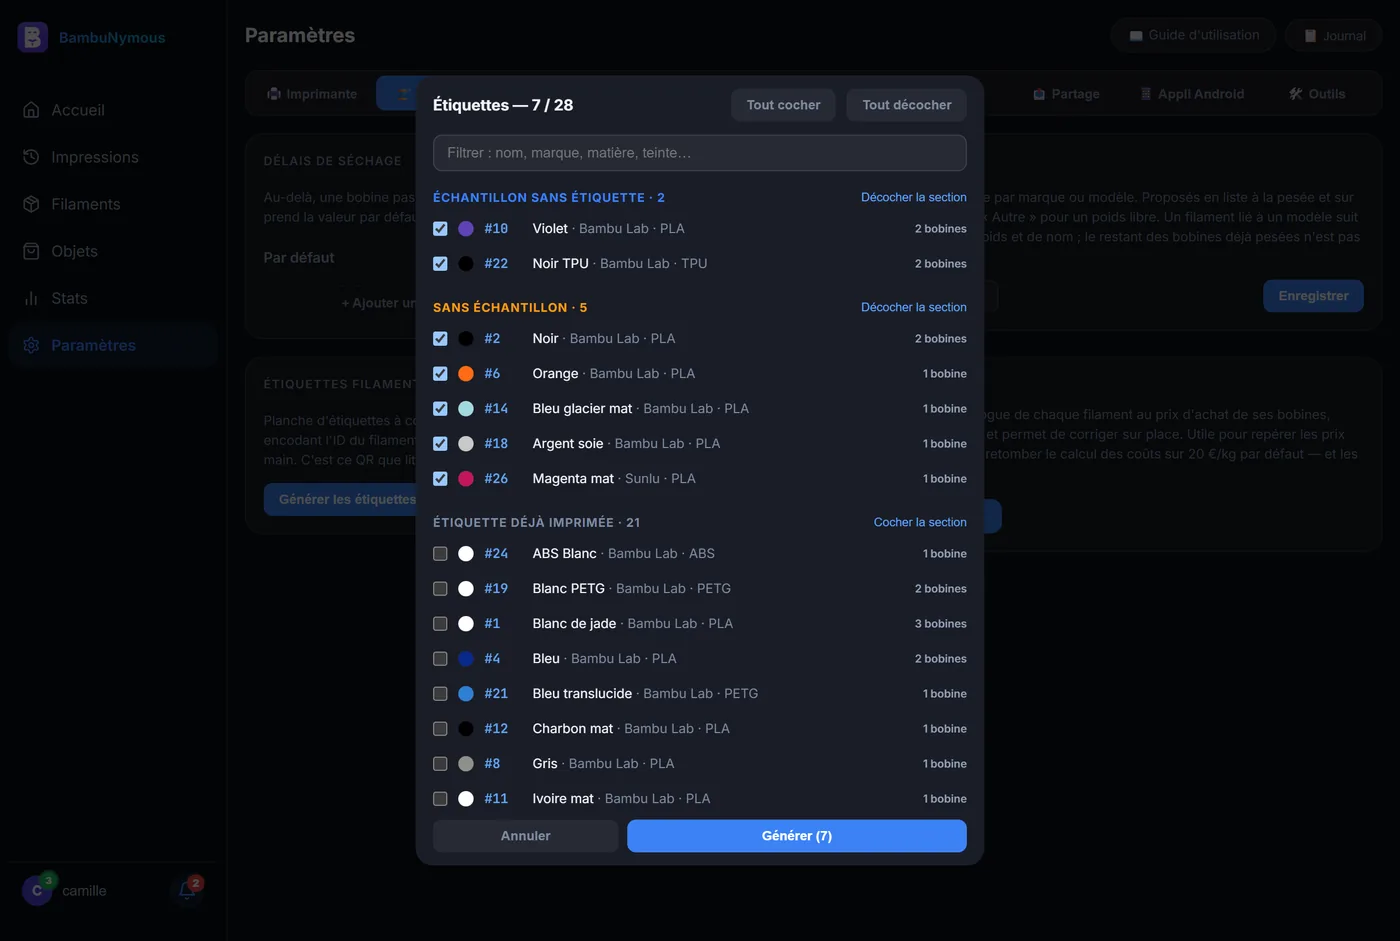
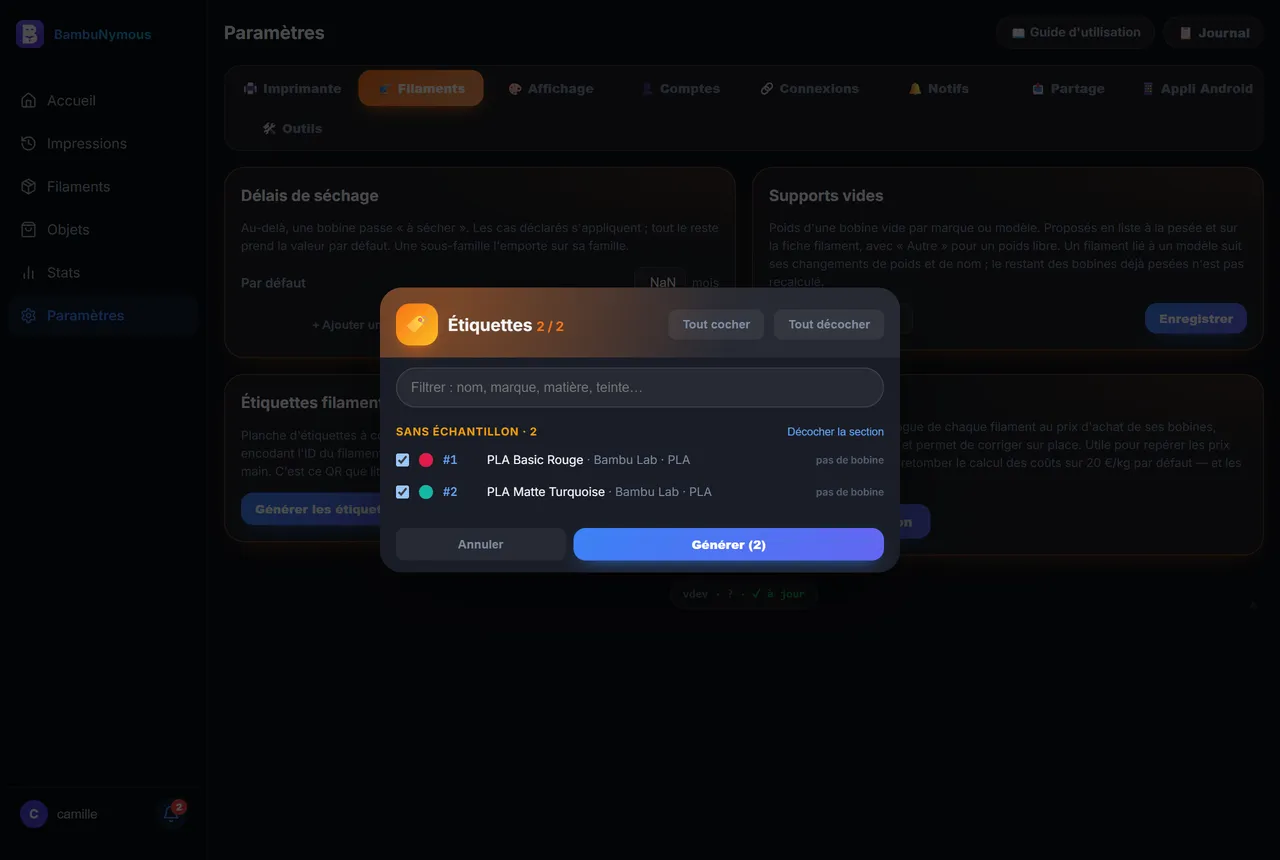
Paramètres : fenêtres Catégories de l'accueil, Étiquettes et Révision des prix dans le nouveau style
En-tête teinté avec icône, coins arrondis, recherche en pilule, filtres et boutons en dégradé ;
dans la révision des prix, une pastille de couleur par filament et les lignes sans prix teintées.

diff --git a/frontend/src/pages/Settings.jsx b/frontend/src/pages/Settings.jsx
@@ -1414,17 +1414,20 @@ function CategoriesModal({ onClose }) {
       justifyContent:"center", padding:16 }}>
       <div onClick={e => e.stopPropagation()} style={{ width:"100%", maxWidth:480,
         maxHeight:"86vh", display:"flex", flexDirection:"column",
-        background:"var(--sheet-bg)", borderRadius:16, overflow:"hidden" }}>
+        background:"var(--sheet-bg)", borderRadius:22, overflow:"hidden", boxShadow:"0 30px 80px rgba(0,0,0,0.45)" }}>
 
-        <div style={{ padding:"12px 16px", display:"flex", alignItems:"center", gap:10 }}>
-          <p style={{ fontSize:14, fontWeight:700, color:"var(--text)", margin:0, flex:1 }}>
+        <div style={{ padding:"16px 16px 12px", display:"flex", alignItems:"center", gap:12,
+          background:"radial-gradient(circle at 12% 30%, #EC489955, transparent 60%), linear-gradient(135deg, #EC489922, transparent 70%), var(--surface2)" }}>
+          <span style={{ width:42, height:42, borderRadius:14, flexShrink:0, display:"flex", alignItems:"center", justifyContent:"center", fontSize:20,
+            background:"linear-gradient(135deg, #EC4899, #F472B6)", boxShadow:"0 8px 18px -8px #EC4899" }}>🗂</span>
+          <p style={{ fontSize:17, fontWeight:900, color:"var(--text)", margin:0, flex:1 }}>
             Catégories de l'accueil
           </p>
-          <button type="button" onClick={onClose}
-            style={{ background:"none", border:"none", color:"var(--muted)",
-              fontSize:18, cursor:"pointer" }}>✕</button>
+          <button type="button" onClick={onClose} aria-label="Fermer"
+            style={{ width:34, height:34, borderRadius:"50%", border:"1px solid var(--border)", background:"var(--surface)",
+              color:"var(--text2)", fontSize:15, cursor:"pointer", flexShrink:0 }}>✕</button>
         </div>
-        <p style={{ margin:0, padding:"0 16px 10px", fontSize:11, color:"var(--muted)" }}>
+        <p style={{ margin:0, padding:"10px 16px 10px", fontSize:12, fontWeight:600, color:"var(--muted)", lineHeight:1.45 }}>
           Fais glisser la poignée (ou utilise les flèches) pour réordonner. L'œil
           masque une catégorie de l'accueil — elle reste consultable dans la liste
           des alertes.
@@ -1490,18 +1493,19 @@ function CategoriesModal({ onClose }) {
           ))}
         </div>
 
-        <div style={{ padding:"12px 16px", display:"flex", gap:8 }}>
+        <div style={{ padding:"12px 16px", display:"flex", gap:8, borderTop:"1px solid var(--border)" }}>
           <button type="button" onClick={onClose}
-            style={{ flex:1, padding:"9px", borderRadius:8, border:"1px solid var(--border)",
-              background:"none", color:"var(--muted)", fontSize:12, cursor:"pointer" }}>
+            style={{ flex:1, padding:"11px", borderRadius:12, border:"1px solid var(--border)",
+              background:"var(--surface2)", color:"var(--text)", fontSize:13.5, fontWeight:800, cursor:"pointer" }}>
             Annuler
           </button>
           <button type="button" onClick={save} disabled={!dirty || busy}
-            style={{ flex:2, padding:"9px", borderRadius:8, border:"none",
-              background: dirty ? "#3b82f6" : "var(--border)",
-              color: dirty ? "white" : "var(--muted)", fontSize:12, fontWeight:700,
+            style={{ flex:2, padding:"11px", borderRadius:12, border:"none",
+              background: dirty ? "linear-gradient(135deg, #EC4899, #8B5CF6)" : "var(--border)",
+              boxShadow: dirty ? "0 8px 18px -10px #EC4899" : "none",
+              color: dirty ? "white" : "var(--muted)", fontSize:13.5, fontWeight:800,
               cursor: dirty ? "pointer" : "default" }}>
-            {busy ? "…" : "Enregistrer"}
+            {busy ? "…" : "✓ Enregistrer"}
           </button>
         </div>
       </div>
@@ -1652,11 +1656,14 @@ function LabelsCard({ card, cardTitle }) {
           justifyContent:"center", padding:16 }}>
           <div onClick={e => e.stopPropagation()} style={{ width:"100%", maxWidth:520,
             maxHeight:"84vh", display:"flex", flexDirection:"column",
-            background:"var(--sheet-bg)", borderRadius:16, overflow:"hidden" }}>
+            background:"var(--sheet-bg)", borderRadius:22, overflow:"hidden", boxShadow:"0 30px 80px rgba(0,0,0,0.45)" }}>
 
-            <div style={{ padding:"12px 16px", display:"flex", alignItems:"center", gap:10 }}>
-              <p style={{ fontSize:14, fontWeight:700, color:"var(--text)", margin:0, flex:1 }}>
-                Étiquettes — {sel.size} / {fils.length}
+            <div style={{ padding:"16px 16px 12px", display:"flex", alignItems:"center", gap:10, flexWrap:"wrap",
+              background:"radial-gradient(circle at 12% 30%, #F9731655, transparent 60%), linear-gradient(135deg, #F9731622, transparent 70%), var(--surface2)" }}>
+              <span style={{ width:42, height:42, borderRadius:14, flexShrink:0, display:"flex", alignItems:"center", justifyContent:"center", fontSize:20,
+                background:"linear-gradient(135deg, #F97316, #FBBF24)", boxShadow:"0 8px 18px -8px #F97316" }}>🏷</span>
+              <p style={{ fontSize:17, fontWeight:900, color:"var(--text)", margin:0, flex:1, whiteSpace:"nowrap" }}>
+                Étiquettes <span style={{ fontSize:13, fontWeight:800, color:"#F97316" }}>{sel.size} / {fils.length}</span>
               </p>
               <button type="button" onClick={() => setSel(new Set(fils.map(f => f.id)))}
                 style={{ ...btn("var(--surface2)"), color:"var(--muted)" }}>Tout cocher</button>
@@ -1664,11 +1671,11 @@ function LabelsCard({ card, cardTitle }) {
                 style={{ ...btn("var(--surface2)"), color:"var(--muted)" }}>Tout décocher</button>
             </div>
 
-            <div style={{ padding:"0 16px 8px" }}>
+            <div style={{ padding:"10px 16px 8px" }}>
               <input value={q} onChange={e => setQ(e.target.value)} placeholder="Filtrer : nom, marque, matière, teinte…"
-                style={{ width:"100%", boxSizing:"border-box", padding:"8px 12px", borderRadius:8,
+                style={{ width:"100%", boxSizing:"border-box", height:40, padding:"0 14px", borderRadius:20,
                   border:"1px solid var(--border)", background:"var(--surface2)",
-                  color:"var(--text)", fontSize:13, outline:"none" }}/>
+                  color:"var(--text)", fontSize:13.5, outline:"none" }}/>
             </div>
 
             <div style={{ flex:1, overflowY:"auto", padding:"0 8px" }}>

diff --git a/frontend/src/components/PriceReview.jsx b/frontend/src/components/PriceReview.jsx
@@ -128,11 +128,11 @@ export default function PriceReview({ onClose }) {
 
   const chip = (id, label, n) => (
     <button key={id} onClick={() => setFilter(id)}
-      style={{ padding:"6px 12px", borderRadius:20, fontSize:11.5, fontWeight:700,
+      style={{ padding:"6px 13px", borderRadius:20, fontSize:12.5, fontWeight:800,
         cursor:"pointer", whiteSpace:"nowrap",
-        border:"1px solid " + (filter===id ? "#3b82f6" : "var(--border)"),
-        background: filter===id ? "rgba(59,130,246,0.15)" : "transparent",
-        color: filter===id ? "#60a5fa" : "var(--muted)" }}>
+        border: filter===id ? "none" : "1px solid var(--border)",
+        background: filter===id ? "linear-gradient(135deg, #F59E0B, #F97316)" : "var(--surface)",
+        color: filter===id ? "#fff" : "var(--muted)" }}>
       {label}{n != null && <span style={{ opacity:0.6, marginLeft:5 }}>{n}</span>}
     </button>
   );
@@ -140,21 +140,24 @@ export default function PriceReview({ onClose }) {
   return (
     <div style={{ position:"fixed", inset:0, zIndex:9000, background:"var(--bg)",
       display:"flex", flexDirection:"column" }}>
-      <div style={{ padding:"14px 16px 10px", borderBottom:"1px solid var(--border)",
-        display:"flex", flexDirection:"column", gap:10 }}>
-        <div style={{ display:"flex", alignItems:"center", gap:10 }}>
-          <h2 style={{ flex:1, margin:0, fontSize:16, fontWeight:800, color:"var(--text)" }}>
+      <div style={{ padding:"calc(14px + env(safe-area-inset-top, 0px)) 16px 12px", borderBottom:"1px solid var(--border)",
+        display:"flex", flexDirection:"column", gap:10,
+        background:"radial-gradient(circle at 10% 20%, #F59E0B44, transparent 60%), linear-gradient(135deg, #F59E0B1c, transparent 70%), var(--surface2)" }}>
+        <div style={{ display:"flex", alignItems:"center", gap:12 }}>
+          <span style={{ width:42, height:42, borderRadius:14, flexShrink:0, display:"flex", alignItems:"center", justifyContent:"center", fontSize:20,
+            background:"linear-gradient(135deg, #F59E0B, #FBBF24)", boxShadow:"0 8px 18px -8px #F59E0B" }}>💶</span>
+          <h2 style={{ flex:1, margin:0, fontSize:19, fontWeight:900, color:"var(--text)" }}>
             Révision des prix
           </h2>
-          <button onClick={onClose}
-            style={{ border:"1px solid var(--border)", background:"none", color:"var(--muted)",
-              borderRadius:8, padding:"6px 12px", fontSize:12, cursor:"pointer" }}>Fermer</button>
+          <button onClick={onClose} aria-label="Fermer"
+            style={{ border:"1px solid var(--border)", background:"var(--surface)", color:"var(--text2)", fontWeight:800,
+              borderRadius:20, padding:"7px 14px", fontSize:12.5, cursor:"pointer" }}>✕ Fermer</button>
         </div>
         <input value={q} onChange={e => setQ(e.target.value)}
           placeholder="Filtrer : nom, marque, sous-type…"
-          style={{ width:"100%", boxSizing:"border-box", padding:"8px 12px", borderRadius:8,
-            border:"1px solid var(--border)", background:"var(--surface2)",
-            color:"var(--text)", fontSize:13, outline:"none" }}/>
+          style={{ width:"100%", boxSizing:"border-box", height:40, padding:"0 14px", borderRadius:20,
+            border:"1px solid var(--border)", background:"var(--surface)",
+            color:"var(--text)", fontSize:13.5, outline:"none" }}/>
         <div style={{ display:"flex", gap:6, overflowX:"auto", paddingBottom:2 }}>
           {chip("all", "Tout", rows?.length)}
           {chip("missing", "Sans prix", counts.missing)}
@@ -175,15 +178,16 @@ export default function PriceReview({ onClose }) {
           const isOpen = !!open[f.id];
           const nSp = f.spools.length;
           return (
-            <div key={f.id} className="card" style={{ marginBottom:8, padding:0,
-              overflow:"hidden" }}>
+            <div key={f.id} style={{ marginBottom:8, padding:0, overflow:"hidden", borderRadius:16,
+              border:`1px solid ${fl.noCat || fl.noSpool ? "rgba(245,158,11,0.45)" : "var(--border)"}`,
+              background: fl.noCat || fl.noSpool ? "linear-gradient(135deg, rgba(245,158,11,0.10), transparent 60%), var(--surface2)" : "var(--surface2)" }}>
               <div onClick={() => setOpen(o => ({ ...o, [f.id]: !o[f.id] }))}
                 style={{ display:"flex", alignItems:"center", gap:10, padding:"10px 12px",
                   cursor: nSp ? "pointer" : "default" }}>
-                <span style={{ width:10, height:28, borderRadius:3, flexShrink:0,
+                <span style={{ width:30, height:30, borderRadius:"50%", flexShrink:0, boxShadow:"inset 0 0 0 1px rgba(148,163,184,.5)",
                   ...colorBg(colors, f.multicolor_type) }}/>
                 <div style={{ flex:1, minWidth:0 }}>
-                  <p style={{ margin:0, fontSize:13, fontWeight:700, color:"var(--text)",
+                  <p style={{ margin:0, fontSize:13.5, fontWeight:800, color:"var(--text)",
                     overflow:"hidden", textOverflow:"ellipsis", whiteSpace:"nowrap" }}>
                     {f.name}
                   </p>
@@ -204,7 +208,7 @@ export default function PriceReview({ onClose }) {
               </div>
 
               {isOpen && nSp > 0 && (
-                <div style={{ borderTop:"1px solid var(--border)", background:"var(--surface2)" }}>
+                <div style={{ borderTop:"1px solid var(--border)", background:"var(--surface)" }}>
                   {f.spools.map(sp => {
                     const ecart = !missing(sp.price) && !missing(f.price) && f.price > 0
                       ? (sp.price - f.price) / f.price : null;
